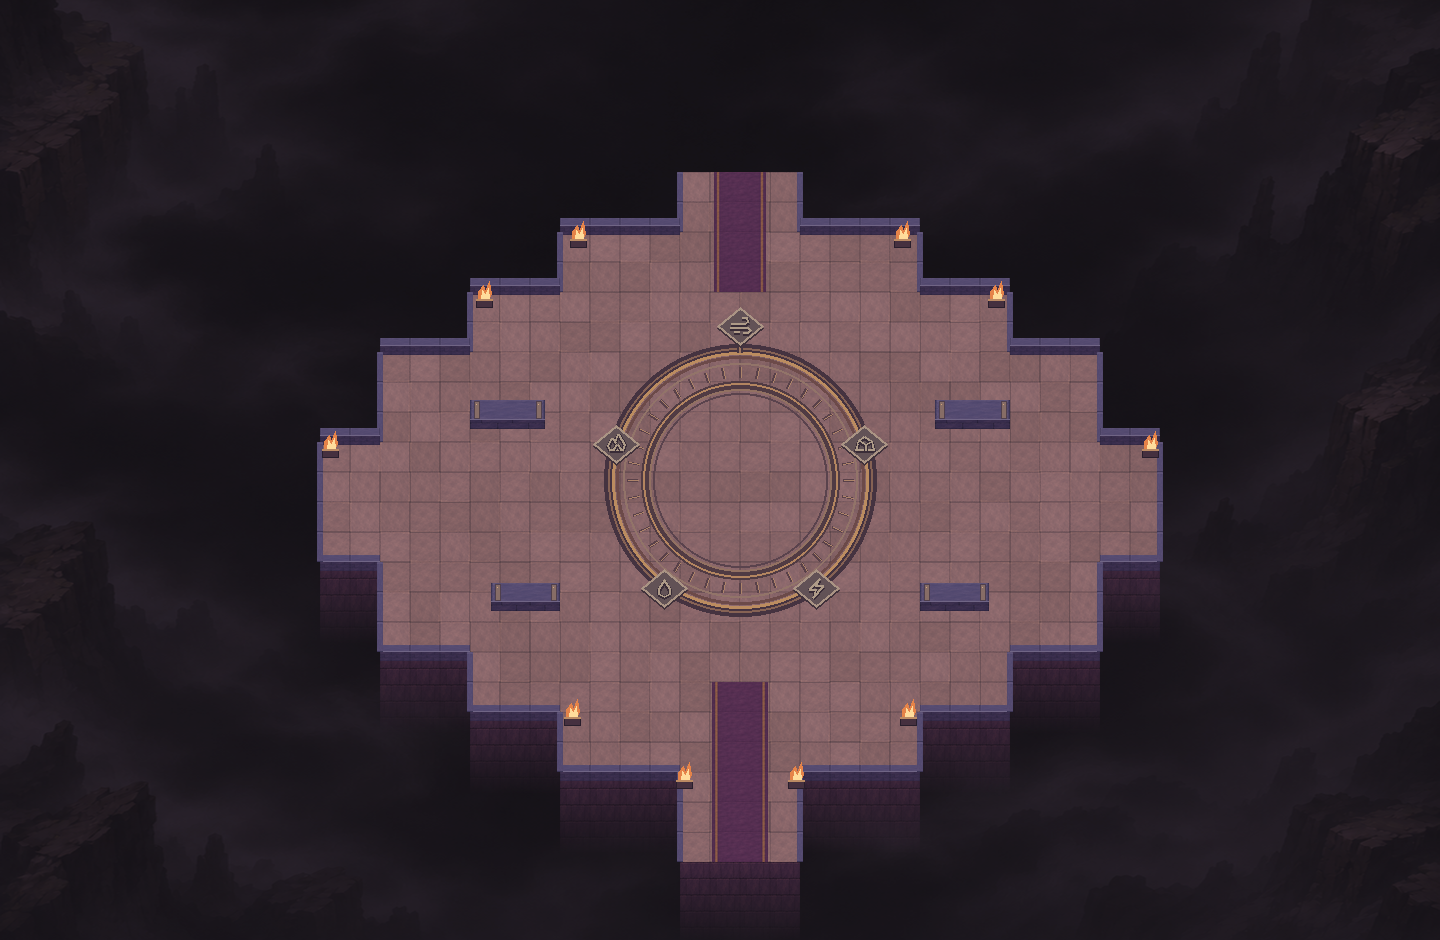
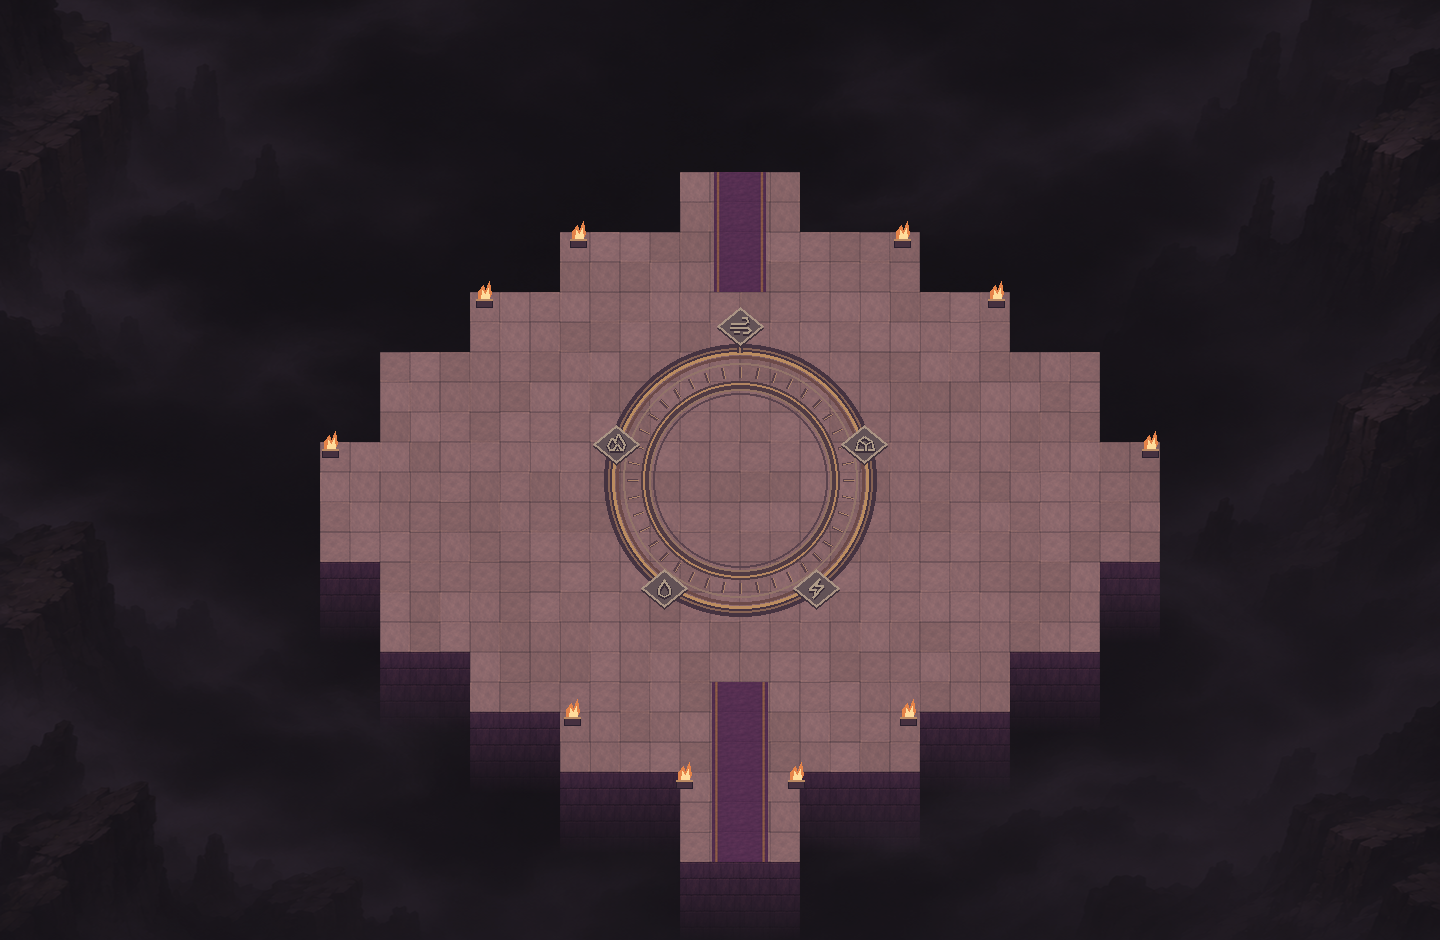
오원 제단과 프롤로그의 벽과 석재 장애물을 게임에서 렌더링

diff --git a/tools/build_room_10_guardian.py b/tools/build_room_10_guardian.py
@@ -32,17 +32,7 @@ def export_terrain():
     art = DungeonTerrain(UNIT, ORIGIN, FLOOR, 1010, (23,13,17), (1,13,17))
     art.rug(14.05,18,15.95,24)
     art.rug(14.15,1,15.85,5)
-    art.rims()
     d = art.draw
-    cover_pixels = []
-    for l,t,r,b in COVER:
-        x,y = art.point(l,t)
-        right,bottom = art.point(r,b)
-        art.ledge(x,y,right-x,bottom-y)
-        cover_pixels.append([x,y,right,bottom+9])
-        for px in (x+4,right-9):
-            d.rectangle((px,y+1,px+5,bottom-2), fill='#876d66', outline='#4f3f4d')
-            d.point((px+2,y+4),fill='#d0a47a')
     cx,cy = art.point(*CENTER)
     for radius,color,width in ((136,'#453340',10),(132,'#866254',2),(128,'#bb8c60',3),
                                (124,'#6c4a49',3),(117,'#927469',2),(99,'#503b43',8),
@@ -87,8 +77,8 @@ def export_terrain():
         'aggroTrigger':dict(x=3,y=5,width=24,height=14),
         'enemies':[dict(id='guardian-1',x=CENTER[0],y=CENTER[1],element='fire',behaviorType='melee',facing='down')],
         'referenceArt':dict(image='guardian-terrain.png',minimumScale=1.15,pixelsPerTile=UNIT,
-                            originPixels=ORIGIN,walkable=FLOOR,cover=COVER,coverPixels=cover_pixels,
-                            walledBoundary=True),
+                            originPixels=ORIGIN,walkable=FLOOR,cover=COVER,coverPixels=[],
+                            wallOpenings=[(24,13,17),(1,13,17)],walledBoundary=True),
         'earthBridge':EARTH_GAP, 'layoutRevision':2,
         'boss':dict(hp=450,formSeconds=8.0,center=CENTER,devices=DEVICES,feeds=feeds,
                     windStartY=7.5,windPlateY=6.15,arena=(5,4.5,25,17.6),
